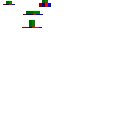
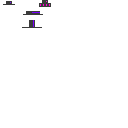
textures!

Changed region(s): [[0.1875, 0.0, 0.4062, 0.125], [0.1562, 0.1562, 0.3438, 0.2188], [0.0312, 0.0, 0.125, 0.0625]]

diff --git a/src/main/java/modmuss50/network/client/Render/RenderWire.java b/src/main/java/modmuss50/network/client/Render/RenderWire.java
@@ -40,7 +40,7 @@ public class RenderWire extends TileEntitySpecialRenderer {
         }
 
 
-        Minecraft.getMinecraft().renderEngine.bindTexture(new ResourceLocation("network", "models/wire.png"));
+        Minecraft.getMinecraft().renderEngine.bindTexture(new ResourceLocation("network", "models/NFCWire.png"));
 
         GL11.glColor3f(0.8F, 0.8F, 0.8F);
         GL11.glPushMatrix();

diff --git a/src/main/java/modmuss50/network/Fmp/PartWireNFC.java b/src/main/java/modmuss50/network/Fmp/PartWireNFC.java
@@ -332,6 +332,7 @@ public class PartWireNFC extends TMultiPart implements TSlottedPart, JNormalOccl
 
 
        if(ticks == 0){
+           conecatable.clear();
            int radius = 4;
            for (int x = -radius; x < radius; x++) {
                for (int y = -radius; y < radius; y++) {
